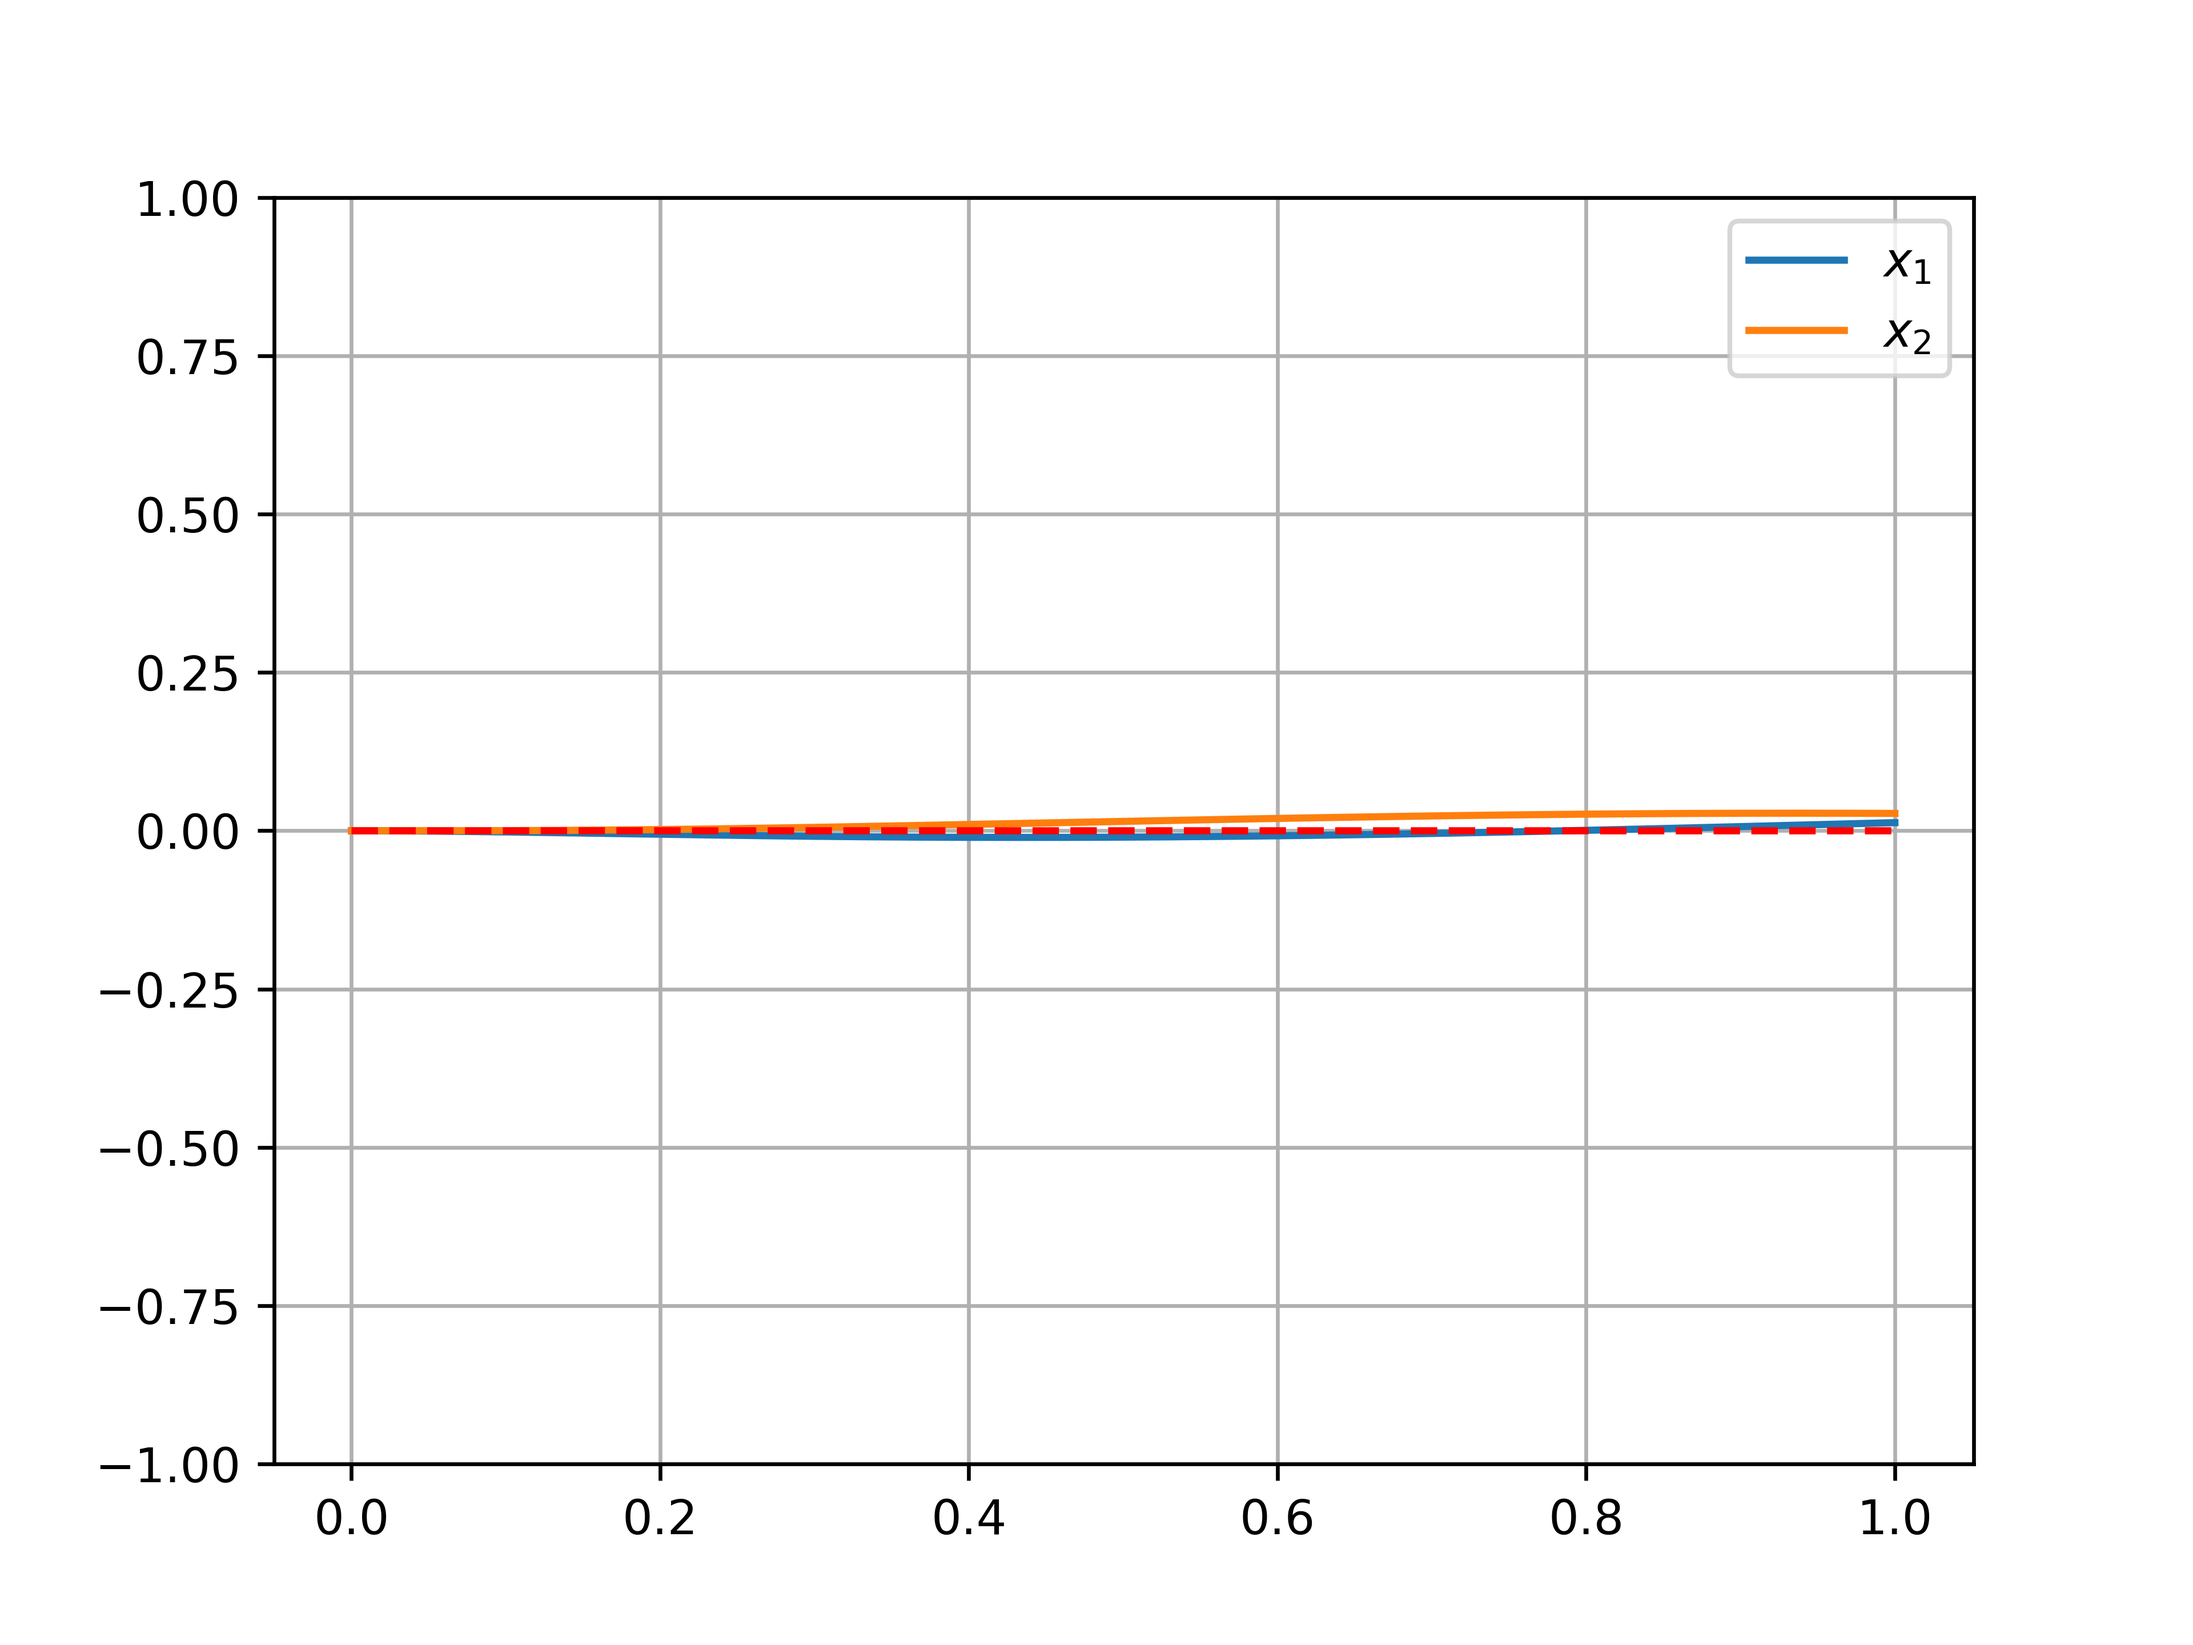
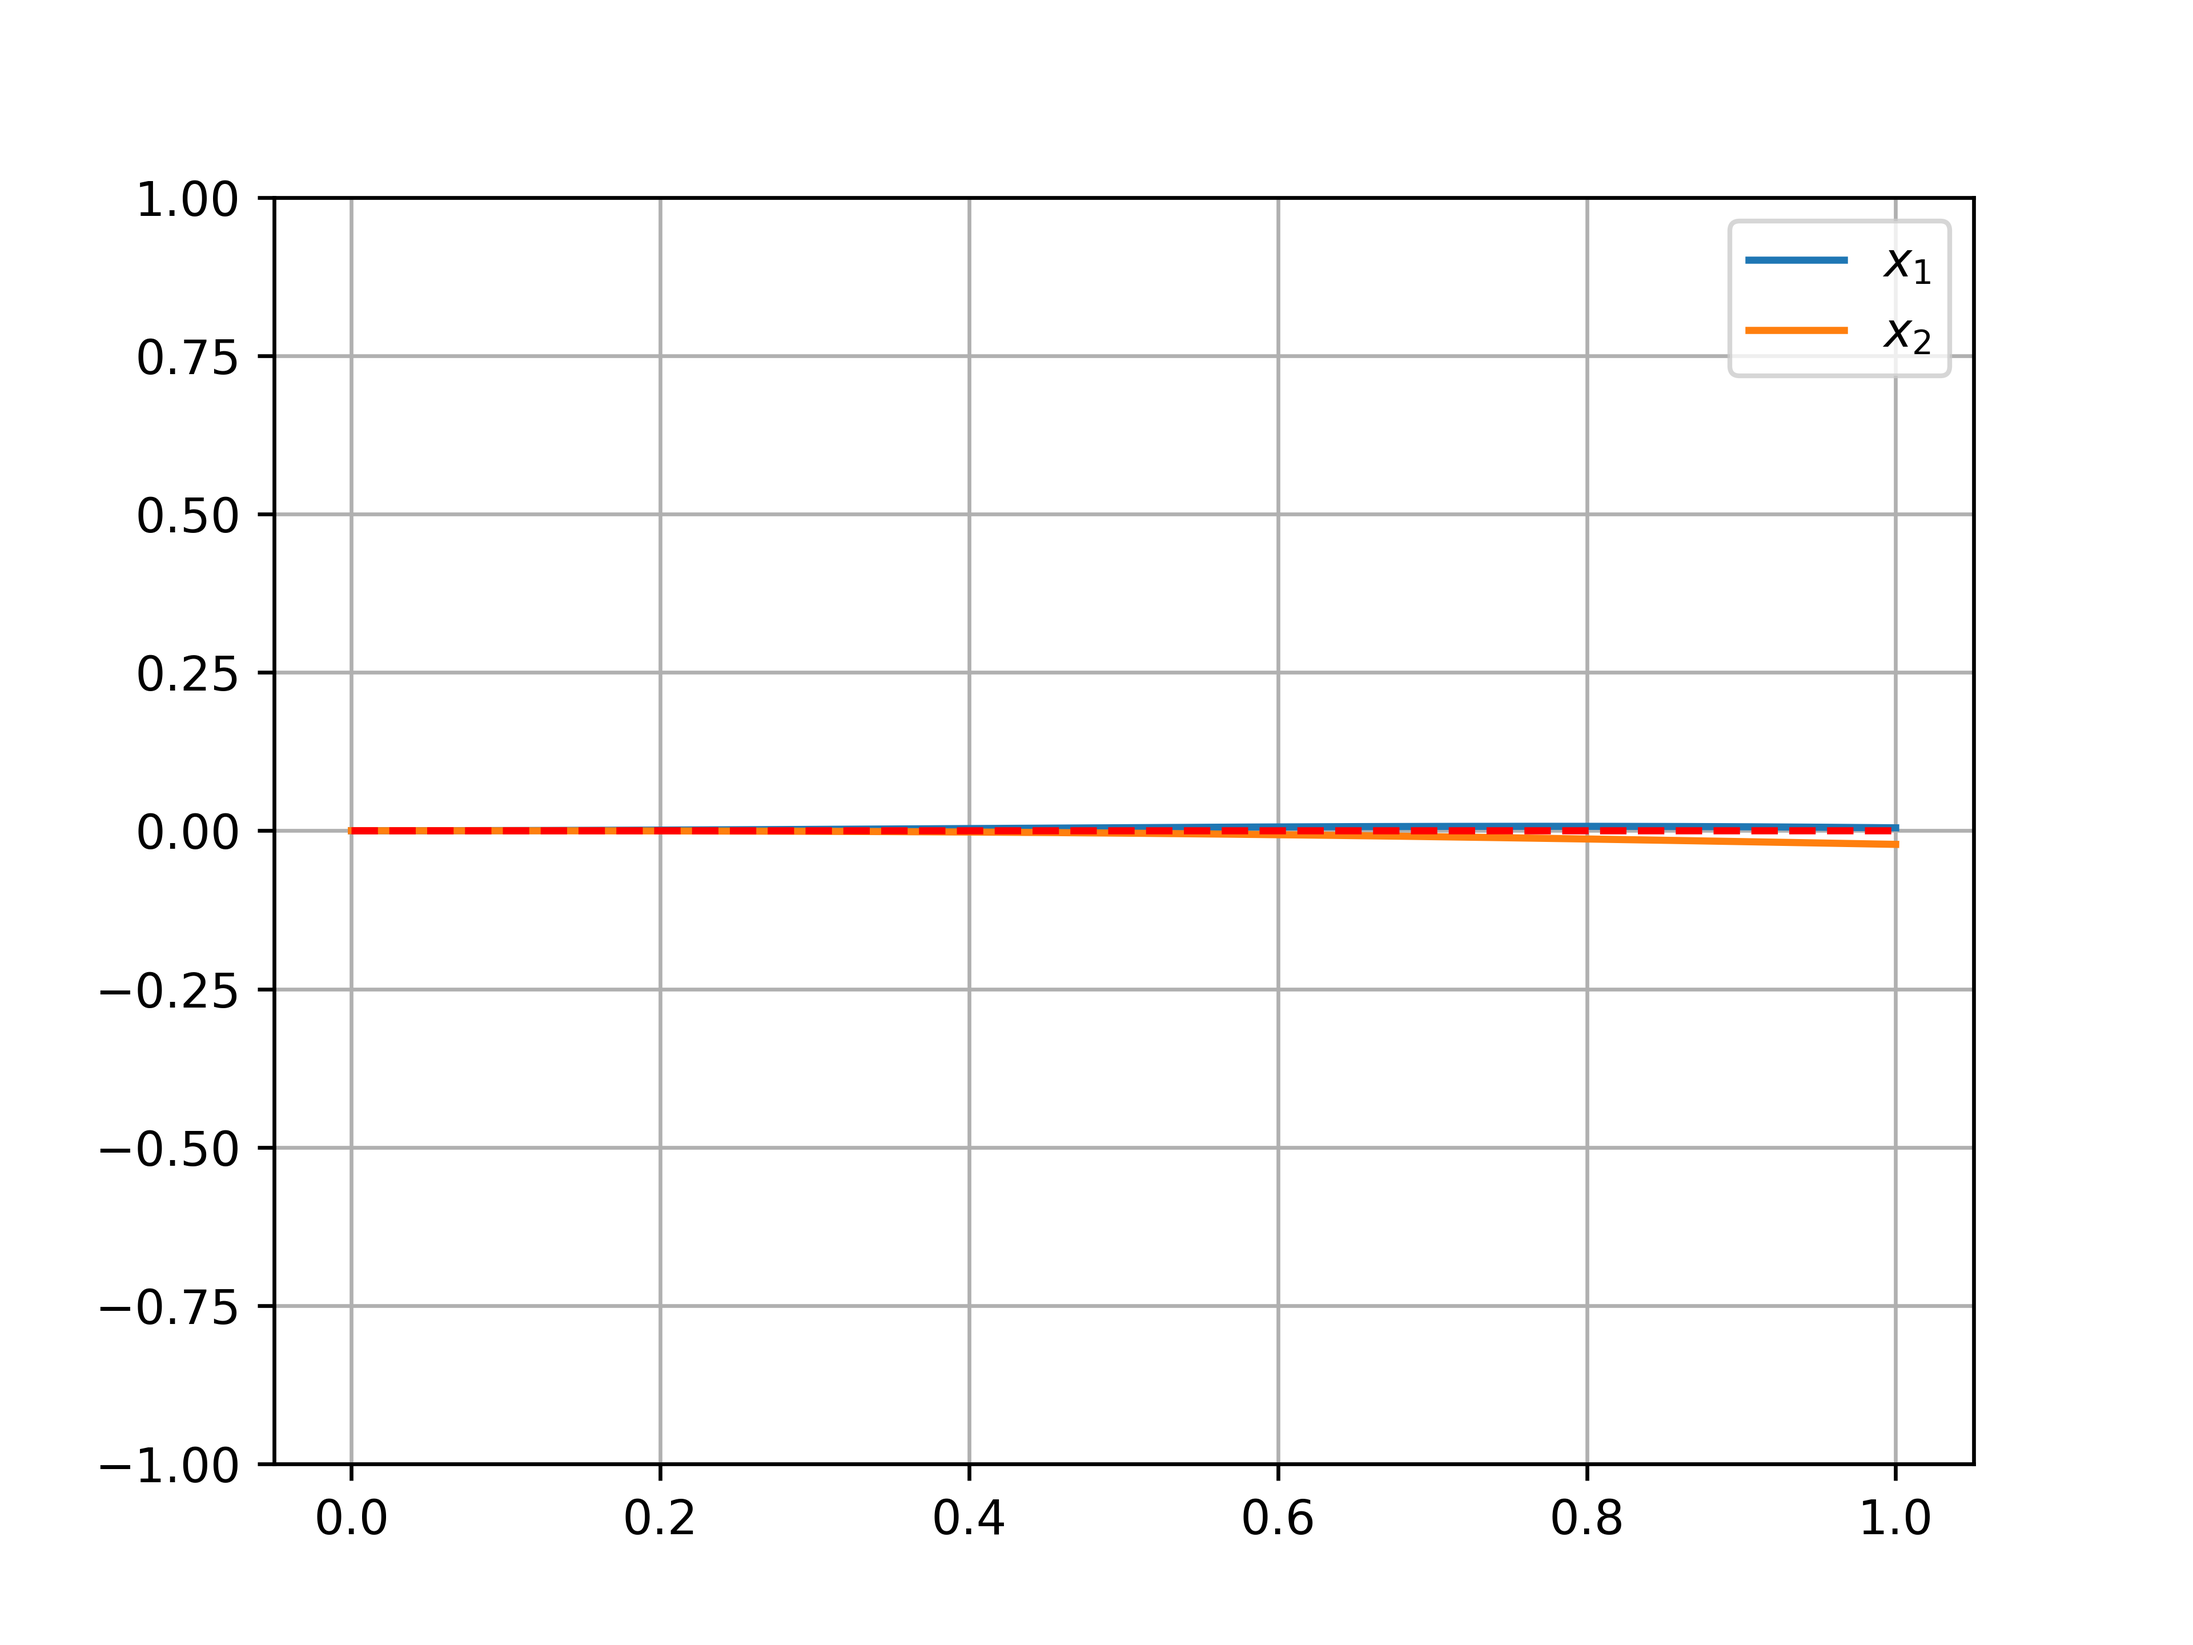
working on demo plots

Changed region(s): [[0.2812, 0.4688, 0.875, 0.5312]]

diff --git a/donald.py b/donald.py
@@ -25,7 +25,7 @@ kl = 2;
 Nx = 3;
 Nu = 2;
 R = 1/2;  # robot-body radius
-dt = 0.001;
+dt = 0.0005;
 
 
 # callback function and parameters
@@ -184,8 +184,8 @@ def obsXU(X=None, mvar=None):
 def obsH(X=None, mvar=None):
     if X is None:
         Ntrig = 2;
-        meta = {'Nk':1+Ntrig+Nu};
-        # meta = {'Nk':1+Nu};
+        # meta = {'Nk':1+Ntrig+Nu};
+        meta = {'Nk':1+Nu};
         return meta;
 
     x = X[:Nx].reshape(Nx,);
@@ -193,8 +193,8 @@ def obsH(X=None, mvar=None):
 
     # dCu = np.array( mvar.gradient(x, u) );
 
-    PsiH = np.vstack( ([1], np.cos(x[2]), np.sin(x[2]), u) );
-    # PsiH = np.vstack( ([1], u) );
+    # PsiH = np.vstack( ([1], np.cos(x[2]), np.sin(x[2]), u) );
+    PsiH = np.vstack( ([1], u) );
     return PsiH;
 
 def obsXUH(X=None, mvar=None):
@@ -332,7 +332,7 @@ if __name__ == "__main__":
 
 
     # save results
-    save = 1;
+    save = 0;
     if save:
         figRes.savefig('/home/michaelnaps/prog/kman/.figures/donald.png', dpi=600);
         figError.savefig('/home/michaelnaps/prog/kman/.figures/donaldError.png', dpi=600);

diff --git a/readme.md b/readme.md
@@ -219,6 +219,11 @@ $$
 
 Meaning that for a small enough time-step, $\Delta t$, the function $\cos(x_3)$ can be propagated using a bilinear combination with the model equation $f_3$.
 
+<p align="center">
+    <img src=./.figures/donald.png width=400 />
+    <img src=./.figures/donaldError.png width=400 />
+</p>
+
 To propagate the function $\cos(x_3) u_1$ we can explore similar series of steps.
 
 $$
@@ -253,10 +258,5 @@ $$
 $$
 
 Which facilitates a high accuracy for the propagation of $\Psi$ with constant input and over a relatively short simulation time. See below.
-
-<p align="center">
-    <img src=./.figures/donald.png width=400 />
-    <img src=./.figures/donaldError.png width=400 />
-</p>
 
 The left image shows the propagation of $\Psi$ with the linearization terms, and the trig functions excluded from $h$; the right image shows the same simulation with trig functions maually updated in $h$.
